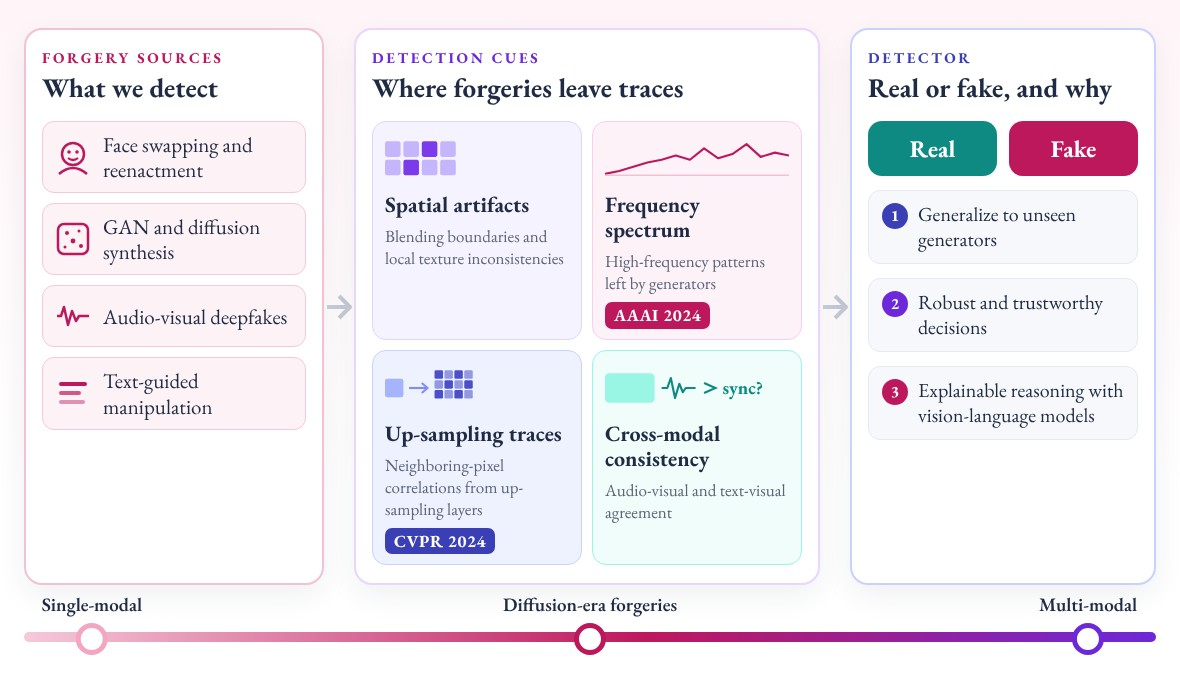
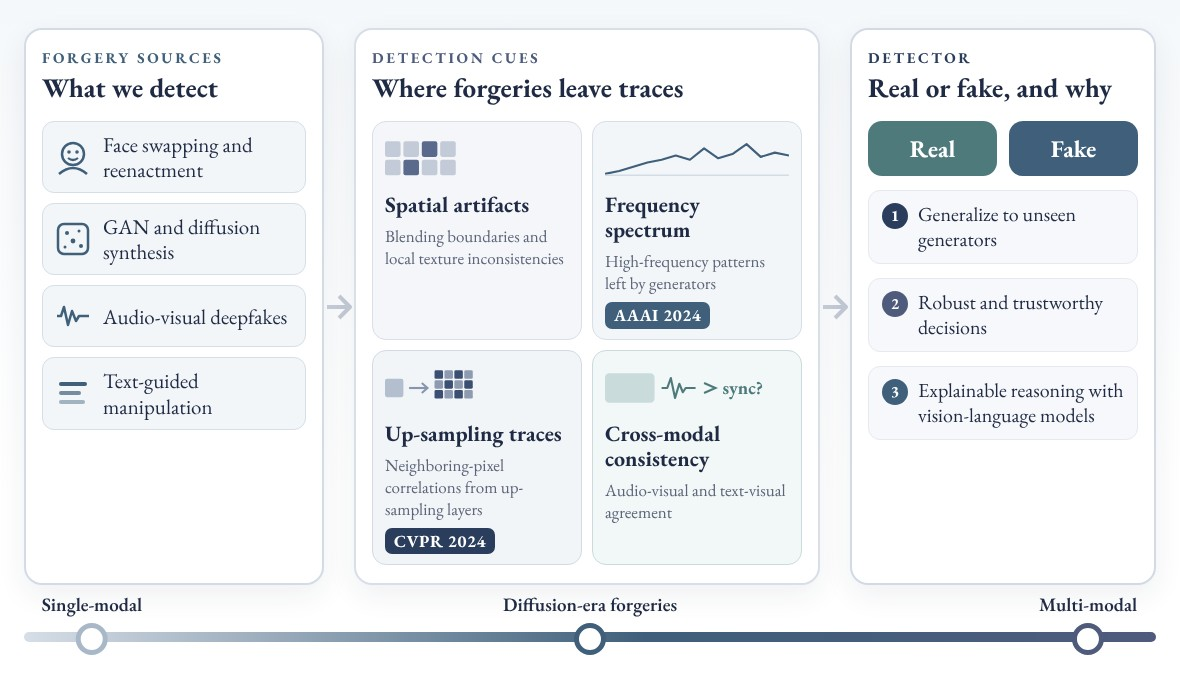
Design A: cool classical editorial theme (preview branch)
Claude-Session: https://claude.ai/code/session_015Txz8qQczgCW6AqJBwN7EX

diff --git a/assets/css/editorial.css b/assets/css/editorial.css
@@ -1,0 +1,102 @@
+/* Editorial theme: one accent (deep ink blue), one secondary (celadon gray),
+   flat surfaces, thin rules, small radii. Overrides the page-level styles. */
+:root {
+  --ed-ink: #1e2633;
+  --ed-muted: #5c6773;
+  --ed-rule: #dfe4ea;
+  --ed-paper: #f5f7f9;
+  --ed-accent: #2a3d5c;
+  --ed-accent-soft: #eef2f6;
+  --ed-gold: #5f8389;
+}
+html body { color: var(--ed-ink); background: #fff; }
+html body a { color: var(--ed-accent); }
+
+/* Masthead */
+html body .masthead { border-bottom: 1px solid var(--ed-rule); background: #fff; }
+html body .masthead__menu-item a { color: var(--ed-muted); letter-spacing: 0.04em; }
+html body .masthead__menu-item a:hover { color: var(--ed-accent); }
+html body .masthead__menu-item--lg a { color: var(--ed-ink); font-weight: 600; letter-spacing: 0; }
+html body .greedy-nav .visible-links a:before { background: var(--ed-gold); height: 2px; }
+
+/* Sidebar */
+html body .author__avatar img { border: 1px solid var(--ed-rule); padding: 3px; }
+html body .author__name { color: var(--ed-ink); }
+html body .author__bio { color: var(--ed-muted); font-style: italic; }
+html body .author__urls { color: var(--ed-muted); }
+html body .author__urls a { color: var(--ed-ink); }
+html body .author__urls i, html body .author__urls .fas, html body .author__urls .fab, html body .author__urls .ai { color: var(--ed-accent); }
+
+/* Footer */
+html body .page__footer { background: #fff; border-top: 1px solid var(--ed-rule); color: var(--ed-muted); }
+html body .page__footer a { color: var(--ed-muted); }
+
+/* Page title */
+html body .page__title { font-weight: 600; letter-spacing: -0.005em; }
+
+/* ---------- Shared section heading treatment ---------- */
+html body .hm-h, html body .rs-h3, html body .tc-h, html body .sv-h, html body .pb-h { border-bottom: 1px solid var(--ed-rule); padding-bottom: 0.35em; }
+html body .hm-h .ic, html body .tc-h .ic, html body .sv-h .ic, html body .pb-h .ic { display: none; }
+html body .hm-h h2, html body .tc-h h2, html body .sv-h h2, html body .pb-h h2 { font-variant: small-caps; letter-spacing: 0.06em; font-size: 1.25em; color: var(--ed-ink); font-weight: 600; }
+html body .rs-h3 { color: var(--ed-gold) !important; font-variant: small-caps; text-transform: none !important; letter-spacing: 0.08em !important; font-size: 1.05em !important; }
+
+/* ---------- Homepage ---------- */
+html body .hm-hero { background: var(--ed-paper); color: var(--ed-ink); border: 1px solid var(--ed-rule); border-top: 3px solid var(--ed-accent); border-radius: 4px; box-shadow: none; padding: 1.8em 2em 1.6em; }
+html body .hm-hero h1 { color: var(--ed-ink); font-weight: 600; }
+html body .hm-hero .role { color: var(--ed-muted); opacity: 1; }
+html body .hm-hero .tag { color: var(--ed-accent); opacity: 1; }
+html body .hm-btns { gap: 0.4em 1.4em; border-top: 1px solid var(--ed-rule); padding-top: 0.9em; }
+html body .hm-btns a { color: var(--ed-accent) !important; background: none; border: 0; border-radius: 0; padding: 0; font-variant: small-caps; letter-spacing: 0.06em; font-size: 0.95em; }
+html body .hm-btns a:hover { background: none; text-decoration: underline !important; }
+html body .hm-about { background: none; border: 0; box-shadow: none; padding: 0; }
+html body .hm-dirs { counter-reset: dir; }
+html body .hm-dir { background: #fff !important; border: 1px solid var(--ed-rule); border-top: 2px solid var(--ed-accent); border-radius: 4px; box-shadow: none; transform: none !important; }
+html body .hm-dir:hover { border-color: var(--ed-accent); box-shadow: none; }
+html body .hm-dir i { display: none; }
+html body .hm-dir b:before { counter-increment: dir; content: counter(dir, upper-roman) "."; display: block; color: var(--ed-gold); font-size: 0.9em; margin-bottom: 0.2em; letter-spacing: 0.05em; }
+html body .hm-open { background: var(--ed-paper); border: 1px solid var(--ed-rule); border-left: 3px solid var(--ed-gold); border-radius: 4px; }
+html body .hm-open li i { color: var(--ed-gold); }
+html body .hm-news { border-left: 1px solid var(--ed-rule); }
+html body .hm-n:before { border-color: var(--ed-accent); border-width: 1.5px; width: 0.6em; height: 0.6em; left: -0.32em; }
+html body .hm-d { color: var(--ed-accent); }
+html body .hm-k { background: none !important; color: var(--ed-gold); border: 1px solid var(--ed-rule); border-radius: 2px; font-variant: small-caps; text-transform: none; letter-spacing: 0.06em; font-size: 0.72em; }
+html body .hm-ln, html body .pb-links a, html body .rs-pub .l a { border-radius: 2px !important; border-color: var(--ed-rule) !important; color: var(--ed-accent) !important; }
+html body .hm-toggle { border-radius: 2px; background: #fff; border-color: var(--ed-rule); color: var(--ed-accent); }
+
+/* ---------- Research page ---------- */
+html body .rs-hero { background: var(--ed-paper); color: var(--ed-ink); border: 1px solid var(--ed-rule); border-top: 3px solid var(--ed-accent); border-radius: 4px; box-shadow: none; }
+html body .rs-hero h2 { color: var(--ed-ink); }
+html body .rs-hero .rs-kicker { color: var(--ed-gold); opacity: 1; }
+html body .rs-hero p { color: var(--ed-muted); opacity: 1; }
+html body .rs-jump { gap: 0.4em 1.4em; }
+html body .rs-jump a { color: var(--ed-accent) !important; background: none; border: 0; border-radius: 0; padding: 0; font-variant: small-caps; letter-spacing: 0.06em; font-size: 0.95em; }
+html body .rs-jump a:hover { background: none; text-decoration: underline !important; }
+html body .rs-step { border-radius: 4px; box-shadow: none; }
+html body .rs-step .rs-ic { background: none !important; color: var(--ed-accent); width: auto; height: auto; justify-content: flex-start; font-size: 1.2em; }
+html body .rs-arrow { color: var(--ed-rule); }
+html body .rs-sec, html body .rs-sec.er, html body .rs-sec.ph, html body .rs-sec.df { background: #fff; border: 0; border-top: 1px solid var(--ed-rule); border-radius: 0; padding: 1.8em 0 0.6em; }
+html body .rs-num { color: var(--ed-gold) !important; opacity: 1; font-weight: 400; font-size: 1.9em; }
+html body .rs-accent { color: var(--ed-gold) !important; }
+html body .rs-q { border-radius: 4px; background: var(--ed-paper); }
+html body .rs-q i { color: var(--ed-accent) !important; }
+html body .rs-callout { border-radius: 4px; border: 1px solid var(--ed-rule) !important; border-left: 3px solid var(--ed-gold) !important; background: var(--ed-paper); }
+html body .rs-callout i, html body .rs-callout a { color: var(--ed-accent) !important; }
+html body .rs-fig { border-radius: 4px; box-shadow: none; border-left-width: 3px !important; }
+html body .rs-fig.f-dp { background: #f3f6f9; border-color: #dde4ec; border-left-color: #2a3d5c; }
+html body .rs-fig.f-mute { background: #f4f5f9; border-color: #e0e2ec; border-left-color: #4e5b7c; }
+html body .rs-fig.f-magic { background: #f2f7f7; border-color: #d9e6e6; border-left-color: #4f7a7c; }
+html body .rs-fig.f-psdpo { background: #f3f6f4; border-color: #dbe5df; border-left-color: #6d8c7c; }
+html body .rs-fig.f-deepfake { background: #f5f5f8; border-color: #e1e1ea; border-left-color: #5d5875; }
+html body .rs-fig.f-npr { background: #f4f6f8; border-color: #dfe3e8; border-left-color: #6b7a8c; }
+html body .rs-fig figcaption b { color: var(--ed-ink) !important; }
+html body .rs-pub { border-radius: 4px; }
+html body .rs-venue { background: #fff !important; color: var(--ed-accent) !important; border: 1px solid var(--ed-accent); border-radius: 2px; font-weight: 600; }
+html body .rs-ob { border-radius: 4px; background: var(--ed-paper); border-top: 2px solid var(--ed-gold) !important; }
+html body .rs-ob .sub, html body .rs-ob h3 i { color: var(--ed-gold) !important; }
+html body .rs-ob li .vn { background: none !important; color: var(--ed-accent); border: 1px solid var(--ed-accent); border-radius: 2px; }
+html body .rs-card { border-radius: 4px; box-shadow: none; border-left: 3px solid var(--ed-accent) !important; }
+html body .rs-card .rs-ic { background: none !important; color: var(--ed-accent); width: auto; height: auto; justify-content: flex-start; font-size: 1.3em; }
+html body .rs-card .rs-gh { background: none !important; color: var(--ed-accent) !important; border: 1px solid var(--ed-accent); border-radius: 2px; }
+html body .rs-callout.ph-c a, html body .rs-callout.ph-c i, html body .rs-callout.df-c a, html body .rs-callout.df-c i { color: var(--ed-accent) !important; }
+html body .rs-callout.ph-c, html body .rs-callout.df-c { border-left-color: var(--ed-gold) !important; }
+html body .df .rs-q i, html body .ph .rs-q i, html body .er .rs-q i { color: var(--ed-accent) !important; }

diff --git a/_includes/head/custom.html b/_includes/head/custom.html
@@ -6,6 +6,7 @@
 <link rel="preconnect" href="https://fonts.gstatic.com" crossorigin>
 <link rel="stylesheet" href="https://fonts.googleapis.com/css2?family=EB+Garamond:ital,wght@0,400;0,500;0,600;0,700;1,400;1,600&display=swap">
 <style>button, input, select, textarea { font-family: inherit; }</style>
+<link rel="stylesheet" href="{{ base_path }}/assets/css/editorial.css?v=1">
 
 <link rel="apple-touch-icon" sizes="57x57" href="{{ base_path }}/images/apple-touch-icon-57x57.png?v=M44lzPylqQ">
 <link rel="apple-touch-icon" sizes="60x60" href="{{ base_path }}/images/apple-touch-icon-60x60.png?v=M44lzPylqQ">
